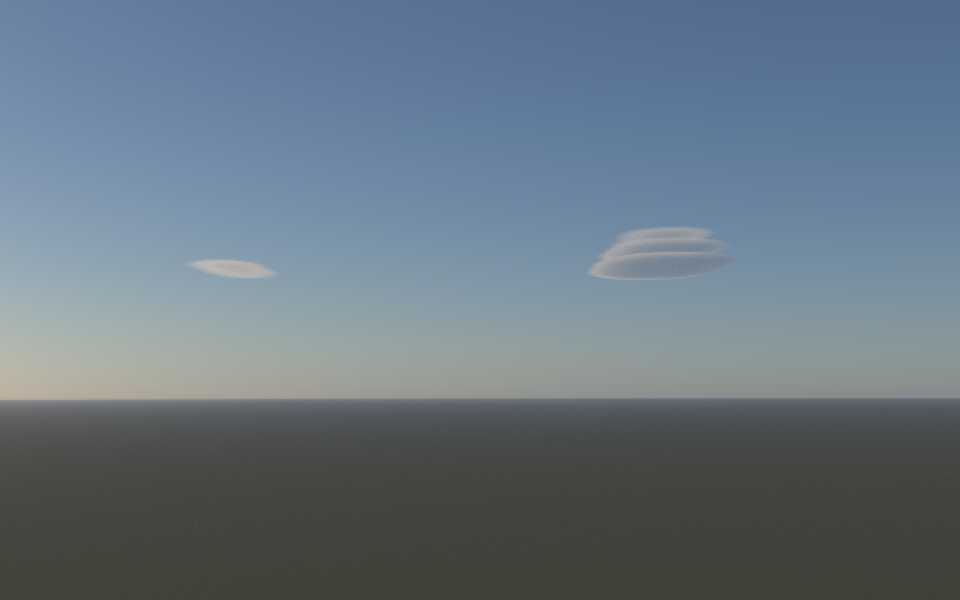
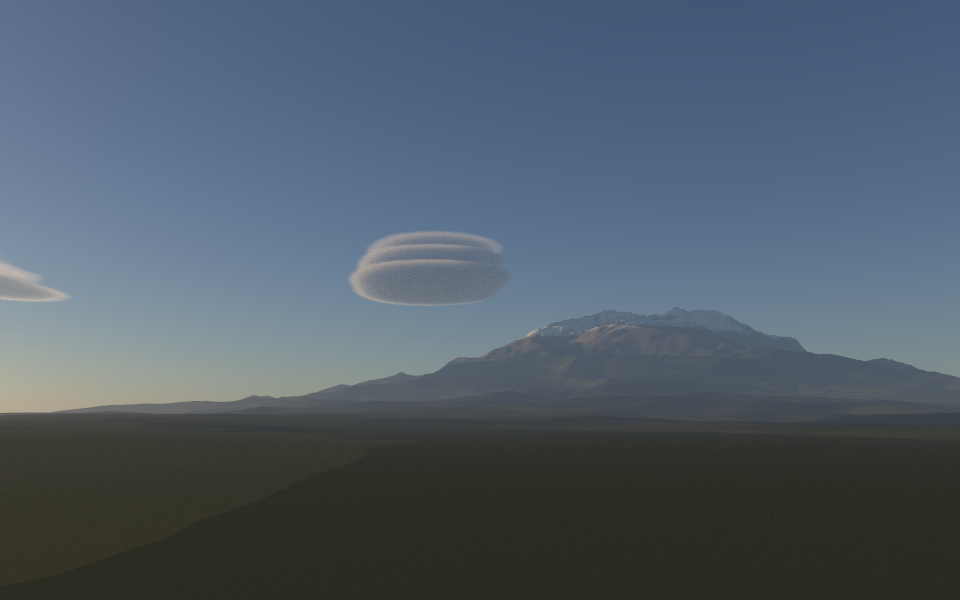
Mountains: a terrain object, and a peak under the lenticular clouds
"terrain" meshes a heightfield of ridged multifractal noise around a massif, fading to rolling
plains at its edges, and lays it on the planet's curve. Its material puts snow above a
ragged snowline on slopes gentle enough to hold it, rock on steep slopes and above the trees,
and forest and grass below. SmoothMesh can now be built from generated triangles.

The lenticular scene now has the stack standing downwind of a snow-capped peak, closer in.

Claude-Session: https://claude.ai/code/session_01U8ZZinwhHe5p11D21Sa8SU

diff --git a/src/procedural/terrain.rs b/src/procedural/terrain.rs
@@ -1,0 +1,239 @@
+//! Mountains: a heightfield of ridged noise around a peak, meshed and lying on the planet, with
+//! a material that puts snow, rock and vegetation where they grow.
+//!
+//! The relief is ridged multifractal noise (F. K. Musgrave, "Texturing and Modeling: A
+//! Procedural Approach", ch. 16): one minus the absolute value of Perlin noise, squared, makes
+//! sharp ridges and rounded valleys, and weighting each octave by the one before keeps valleys
+//! smooth and roughens the ridges. Domain warping bends the ridges. A massif rises around
+//! `peak`, and the relief fades to gently rolling plains towards the edges, which follow the
+//! planet's curve so the range meets the ground and drops behind the horizon with distance.
+//!
+//! Snow lies above `snowline` where slopes are gentle enough to hold it, rock shows on steep
+//! slopes and above `treeline`, and below are forest and grassland.
+
+use crate::color::Color;
+use crate::intersection::Intersection;
+use crate::material::functions::{direct_lighting, scatter_lambertian};
+use crate::material::model::{MaterialModel, ScatteredRay};
+use crate::na::{Vector2, Vector3};
+use crate::noise::PerlinNoise;
+use crate::procedural::nubis_clouds::smoothstep;
+use crate::ray::Ray;
+use crate::scene::Scene;
+use crate::shapes::triangle::SmoothTriangle;
+use std::sync::Arc;
+
+pub struct Terrain {
+    /// Middle of the square of terrain ([x, z]), and how far it reaches either side.
+    pub center: Vector2<f64>,
+    pub extent: f64,
+    /// Vertices along each side.
+    pub resolution: usize,
+    /// The massif: where its summit is, how high it rises (m), and how wide it is.
+    pub peak: Vector2<f64>,
+    pub peak_height: f64,
+    pub peak_radius: f64,
+    /// Ridged relief: its height (m) and the size of its largest features.
+    pub relief: f64,
+    pub feature_size: f64,
+    /// Rolling relief of the plains (m).
+    pub plains: f64,
+    /// The planet's radius, to curve the ground; None for flat.
+    pub planet_radius: Option<f64>,
+    noise: PerlinNoise,
+    warp: PerlinNoise,
+}
+
+impl Terrain {
+    pub fn new(seed: u64) -> Terrain {
+        Terrain {
+            center: Vector2::zeros(),
+            extent: 30_000.,
+            resolution: 768,
+            peak: Vector2::zeros(),
+            peak_height: 3200.,
+            peak_radius: 7000.,
+            relief: 900.,
+            feature_size: 6000.,
+            plains: 40.,
+            planet_radius: Some(crate::planet::EARTH_RADIUS),
+            noise: PerlinNoise::with_seed(seed.wrapping_mul(2).wrapping_add(11)),
+            warp: PerlinNoise::with_seed(seed.wrapping_mul(2).wrapping_add(12)),
+        }
+    }
+
+    /// Ridged multifractal noise in [0, about 1].
+    fn ridged(&self, x: f64, z: f64, octaves: u32) -> f64 {
+        let (mut sum, mut amplitude, mut frequency, mut weight, mut norm) = (0., 1., 1., 1., 0.);
+        for i in 0..octaves {
+            let n = self.noise.noise(x * frequency, 0.37 * i as f64, z * frequency);
+            let ridge = (1. - n.abs()).powi(2);
+            let r = ridge * weight;
+            sum += r * amplitude;
+            norm += amplitude;
+            weight = (r * 2.).clamp(0., 1.);
+            amplitude *= 0.5;
+            frequency *= 2.03;
+        }
+        sum / norm
+    }
+
+    /// Height above the planet's surface at (`x`, `z`).
+    pub fn relief_at(&self, x: f64, z: f64) -> f64 {
+        let (u, v) = (x / self.feature_size, z / self.feature_size);
+        let w = |o: f64| (self.warp.fbm(u * 0.5, o, v * 0.5, 3, 0.5, 2.) - 0.5) * 1.6;
+        let (u, v) = (u + w(0.2), v + w(0.7));
+        let r = (Vector2::new(x, z) - self.peak).norm() / self.peak_radius;
+        // The massif: a broad, steep-sided dome, with ridges carved into it everywhere it rises.
+        let massif = (-r.powf(1.6)).exp();
+        let foothills = (-(r / 2.2).powi(2)).exp();
+        let ridges = self.ridged(u, v, 8);
+        let mountains = self.peak_height * massif * (0.55 + 0.45 * ridges) + self.relief * foothills * (ridges - 0.3);
+        let rolling = self.plains * (self.warp.fbm(u * 2., 0.5, v * 2., 4, 0.5, 2.) - 0.5) * 2.;
+        // Fade to the plains at the edges, so the terrain meets the ground around it.
+        let edge = (Vector2::new(x, z) - self.center).abs().max() / self.extent;
+        let fade = 1. - smoothstep(0.8, 1., edge);
+        (mountains * fade).max(0.) + rolling * fade
+    }
+
+    /// The surface point at (`x`, `z`): on the curved planet unless flat.
+    pub fn point(&self, x: f64, z: f64) -> Vector3<f64> {
+        let h = self.relief_at(x, z);
+        match self.planet_radius {
+            None => Vector3::new(x, h, z),
+            Some(radius) => {
+                // Straight down from the planet's top, onto the sphere, then up by the relief.
+                let up = Vector3::new(x, radius, z).normalize();
+                Vector3::new(0., -radius, 0.) + up * (radius + h)
+            }
+        }
+    }
+
+    /// The triangles, with normals from the heightfield's slope at each vertex.
+    pub fn triangles(&self) -> Vec<Arc<SmoothTriangle>> {
+        let n = self.resolution.max(2);
+        let step = 2. * self.extent / (n - 1) as f64;
+        let at = |i: usize, j: usize| (self.center.x - self.extent + i as f64 * step, self.center.y - self.extent + j as f64 * step);
+        let points: Vec<Vector3<f64>> = (0..n * n).map(|k| {
+            let (x, z) = at(k % n, k / n);
+            self.point(x, z)
+        }).collect();
+        let p = |i: usize, j: usize| points[j * n + i];
+        let normals: Vec<Vector3<f64>> = (0..n * n).map(|k| {
+            let (i, j) = (k % n, k / n);
+            let dx = p((i + 1).min(n - 1), j) - p(i.saturating_sub(1), j);
+            let dz = p(i, (j + 1).min(n - 1)) - p(i, j.saturating_sub(1));
+            dz.cross(&dx).normalize()
+        }).collect();
+        let nm = |i: usize, j: usize| normals[j * n + i];
+        let mut tris = Vec::with_capacity(2 * (n - 1) * (n - 1));
+        for j in 0..n - 1 {
+            for i in 0..n - 1 {
+                tris.push(Arc::new(SmoothTriangle::new(p(i, j), p(i, j + 1), p(i + 1, j), nm(i, j), nm(i, j + 1), nm(i + 1, j))));
+                tris.push(Arc::new(SmoothTriangle::new(p(i + 1, j), p(i, j + 1), p(i + 1, j + 1), nm(i + 1, j), nm(i, j + 1), nm(i + 1, j + 1))));
+            }
+        }
+        tris
+    }
+}
+
+/// Snow, rock and vegetation by height and slope.
+pub struct TerrainMaterial {
+    pub snowline: f64,
+    pub treeline: f64,
+    pub snow: Color,
+    pub rock: Color,
+    pub forest: Color,
+    pub grass: Color,
+    pub planet_radius: Option<f64>,
+    noise: PerlinNoise,
+}
+
+impl TerrainMaterial {
+    pub fn new(seed: u64) -> TerrainMaterial {
+        TerrainMaterial {
+            snowline: 2400.,
+            treeline: 1800.,
+            snow: Color::new(0.85, 0.87, 0.9),
+            rock: Color::new(0.16, 0.14, 0.12),
+            forest: Color::new(0.035, 0.05, 0.03),
+            grass: Color::new(0.11, 0.12, 0.06),
+            planet_radius: Some(crate::planet::EARTH_RADIUS),
+            noise: PerlinNoise::with_seed(seed.wrapping_add(31)),
+        }
+    }
+
+    /// Height above the planet, and the local vertical.
+    fn frame(&self, p: &Vector3<f64>) -> (f64, Vector3<f64>) {
+        match self.planet_radius {
+            None => (p.y, Vector3::y()),
+            Some(r) => {
+                let c = Vector3::new(0., -r, 0.);
+                ((p - c).norm() - r, (p - c).normalize())
+            }
+        }
+    }
+
+    pub fn albedo(&self, p: &Vector3<f64>, normal: &Vector3<f64>) -> Color {
+        let (height, up) = self.frame(p);
+        let flatness = normal.dot(&up);
+        let n = |s: f64, o: f64| self.noise.fbm(p.x / s, o, p.z / s, 4, 0.5, 2.);
+        // Snow holds on slopes gentler than about 50°, drifting below the snowline in gullies.
+        let line = self.snowline + (n(900., 0.1) - 0.5) * 900.;
+        let snow = smoothstep(line - 120., line + 120., height) * smoothstep(0.55, 0.75, flatness);
+        // Bare rock on steep slopes, and everywhere above the trees.
+        let tree = self.treeline + (n(1500., 0.3) - 0.5) * 500.;
+        let rock = (1. - smoothstep(0.6, 0.8, flatness)).max(smoothstep(tree - 100., tree + 150., height));
+        let vegetation = self.grass * (1. - smoothstep(0.4, 0.6, n(2500., 0.5))) + self.forest * smoothstep(0.4, 0.6, n(2500., 0.5));
+        let below = vegetation * (1. - rock) + self.rock * rock * (0.7 + 0.6 * n(300., 0.7));
+        below * (1. - snow) + self.snow * snow
+    }
+}
+
+impl MaterialModel for TerrainMaterial {
+    fn scatter(&self, r: &Ray, intersection: &Intersection, s: &Scene) -> ScatteredRay {
+        let intersection = &intersection.facing(r);
+        let albedo = self.albedo(&intersection.point, &intersection.normal);
+        ScatteredRay {
+            emit: direct_lighting(albedo, intersection, s),
+            sampled_lights: true,
+            ..scatter_lambertian(albedo, intersection)
+        }
+    }
+}
+
+#[cfg(test)]
+mod tests {
+    use super::*;
+
+    #[test]
+    fn test_massif_rises_at_the_peak_and_fades_at_the_edges() {
+        let t = Terrain::new(1);
+        let summit = t.relief_at(0., 0.);
+        assert!(summit > 0.5 * t.peak_height, "{}", summit);
+        let edge = t.relief_at(t.extent, 0.);
+        assert!(edge.abs() < 1e-6, "{}", edge);
+        // Far out, only the plains' gentle relief.
+        assert!(t.relief_at(0.7 * t.extent, 0.7 * t.extent).abs() < 0.2 * t.peak_height);
+    }
+
+    #[test]
+    fn test_ground_curves_with_the_planet() {
+        let t = Terrain::new(1);
+        let p = t.point(0.99 * t.extent, 0.);
+        let drop = (0.99 * t.extent).powi(2) / (2. * crate::planet::EARTH_RADIUS);
+        assert!((p.y + drop).abs() < 1., "{} vs {}", p.y, -drop);
+    }
+
+    #[test]
+    fn test_snow_on_high_gentle_slopes_and_not_on_cliffs_or_low() {
+        let mut m = TerrainMaterial::new(1);
+        m.planet_radius = None;
+        let up = Vector3::y();
+        let cliff = Vector3::new(1., 0.3, 0.).normalize();
+        let high = Vector3::new(0., 3500., 0.);
+        assert!((m.albedo(&high, &up).rgb.x - m.snow.rgb.x).abs() < 1e-9);
+        assert!(m.albedo(&high, &cliff).rgb.x < 0.5);
+        assert!(m.albedo(&Vector3::new(0., 200., 0.), &up).rgb.x < 0.2);
+    }
+}

diff --git a/src/scenefile.rs b/src/scenefile.rs
@@ -19,6 +19,7 @@ use crate::procedural::nubis_clouds::{NubisCloudLayer, GlobalNubis};
 use crate::procedural::hogan_kew_cirrus::{HoganKewCirrus, CirrusField, CirrusGenus, GlobalCirrus};
 use crate::procedural::benard_altocumulus::BenardAltocumulus;
 use crate::procedural::lenticular::{Lenticular, MoistLayer};
+use crate::procedural::terrain::{Terrain, TerrainMaterial};
 use crate::procedural::harris_cumulus::{CloudSimulation, Forcing, HarrisCumulus, Profile, SimulationParams, Sounding};
 use crate::participatingmedia::create_fog;
 use crate::volume::{create_volume, DensityField, ConstantDensity, NoiseDensity, ScatteringApproximation, Oz, Diffraction, Halos, Scattering};
@@ -256,6 +257,10 @@ impl SceneFile {
 
         if t == "harris_cumulus" {
             return Some(Arc::new(SceneFile::parse_harris_cumulus(&o)));
+        }
+
+        if t == "terrain" {
+            return Some(Arc::new(SceneFile::parse_terrain(&o)));
         }
 
         if t == "lenticular" {
@@ -624,6 +629,45 @@ impl SceneFile {
         );
         let (bounds, field) = SceneFile::curved(o, bounds, Arc::new(c));
         create_volume(bounds, field, SceneFile::parse_scattering(o, 0.85))
+    }
+
+    /// Mountains (see `procedural::terrain`): a meshed heightfield of ridged noise around a
+    /// massif, lying on the planet, with snow, rock and vegetation:
+    ///
+    /// `{"type": "terrain", "center": [x, z], "extent": 30000, "resolution": 768,
+    /// "peak": [x, z], "peak_height": 3200, "peak_radius": 7000, "seed": 0}`
+    ///
+    /// with `relief` and `feature_size` (the ridges), `plains` (relief of the plains around),
+    /// `snowline` and `treeline` (m), the colours `snow`, `rock`, `forest` and `grass`, and
+    /// `"mapping": "flat"` for flat ground rather than the planet's.
+    pub fn parse_terrain(o: &Value) -> SceneObject {
+        let num = |k: &str, d: f64| SceneFile::parse_number(&o[k], d);
+        let seed = SceneFile::parse_seed(o).unwrap_or(0);
+        let flat = o["mapping"].as_str() == Some("flat");
+        let mut t = Terrain::new(seed);
+        t.center = SceneFile::parse_vec2_def(o, "center", t.center);
+        t.extent = num("extent", t.extent).max(1.);
+        t.resolution = SceneFile::parse_int(&o["resolution"], t.resolution).max(2);
+        t.peak = SceneFile::parse_vec2_def(o, "peak", t.center);
+        t.peak_height = num("peak_height", t.peak_height);
+        t.peak_radius = num("peak_radius", t.peak_radius).max(1.);
+        t.relief = num("relief", t.relief);
+        t.feature_size = num("feature_size", t.feature_size).max(1.);
+        t.plains = num("plains", t.plains);
+        let radius = if flat { None } else { Some(SceneFile::parse_number(&o["earth_radius"], EARTH_RADIUS)) };
+        t.planet_radius = radius;
+        let mut m = TerrainMaterial::new(seed);
+        m.planet_radius = radius;
+        m.snowline = num("snowline", m.snowline);
+        m.treeline = num("treeline", m.treeline);
+        m.snow = SceneFile::parse_color_def(o, "snow", m.snow);
+        m.rock = SceneFile::parse_color_def(o, "rock", m.rock);
+        m.forest = SceneFile::parse_color_def(o, "forest", m.forest);
+        m.grass = SceneFile::parse_color_def(o, "grass", m.grass);
+        SceneObject {
+            geometry: Box::new(SmoothMesh::from_triangles(t.triangles())),
+            medium: Box::new(Solid { m: Box::new(m) }),
+        }
     }
 
     /// Lenticular clouds over the lee waves of a ridge (see `procedural::lenticular`):

diff --git a/src/shapes/mesh.rs b/src/shapes/mesh.rs
@@ -180,9 +180,13 @@ impl SmoothMesh {
         }
 
         println!("# of triangles: {}", triangles.len());
+        SmoothMesh::from_triangles(triangles)
+    }
 
+    /// A mesh of the given triangles, eg. generated rather than loaded.
+    pub fn from_triangles(triangles: Vec<Arc<SmoothTriangle>>) -> SmoothMesh {
         let bounds = SmoothMesh::bounds_of(&triangles);
-        let tree = Octree::new(8, bounds, &triangles); 
+        let tree = Octree::new(8, bounds, &triangles);
         SmoothMesh {
             triangles: tree,
             bounds,

diff --git a/src/main.rs b/src/main.rs
@@ -75,6 +75,7 @@ mod procedural {
     pub mod hogan_kew_cirrus;
     pub mod benard_altocumulus;
     pub mod lenticular;
+    pub mod terrain;
     pub mod harris_cumulus;
 }
 mod participatingmedia;

diff --git a/CLAUDE.md b/CLAUDE.md
@@ -4,7 +4,7 @@
 Rays.rust is a raytracer written in Rust with the following features:
 - Whitted tracing and path tracing with Monte-Carlo global illumination
 - Material models: Lambertian, Specular, Dielectric
-- Objects: Sphere, Plane, Mesh, OBJ file import, and a planet (`"planet"`: the ground as a sphere of the Earth's radius); clouds can cover the whole planet (`"mapping": "global"`: an equi-angular cube-sphere weather map and a planet-wide wind field), seen from orbit in `demo/scenes/orbit.json` (and the bare atmosphere at the limb and from the stratosphere: `limb-sunset.json`, `stratosphere.json`)
+- Objects: Sphere, Plane, Mesh, OBJ file import, mountains (`"terrain"`: ridged-noise heightfield with snow, rock and vegetation), and a planet (`"planet"`: the ground as a sphere of the Earth's radius); clouds can cover the whole planet (`"mapping": "global"`: an equi-angular cube-sphere weather map and a planet-wide wind field), seen from orbit in `demo/scenes/orbit.json` (and the bare atmosphere at the limb and from the stratosphere: `limb-sunset.json`, `stratosphere.json`)
 - Participating media: boxes of constant or noise-driven density (delta tracking with local majorants, ratio-tracked shadows); Henyey-Greenstein or Mie (water droplet) phase; diffraction by particles (coronae, iridescence); ice-crystal halos traced through hexagonal prisms (sun dogs, 22°/46° halos, circumzenithal arc); optional similarity and Oz multiple-scattering approximations
 - Skysphere with Rayleigh and Mie Scattering, and aerial perspective (distant objects attenuated and hazed by the same atmosphere)
 - Directional sun light (`"sun"`), sampled directly; follows the skysphere's sun and is reddened by its atmosphere

diff --git a/demo/cloud-atlas.md b/demo/cloud-atlas.md
@@ -109,7 +109,7 @@ troughs.
 
 ![Lenticular clouds](./scenes/lenticular.png)
 
-`lenticular.json`: `{"type": "lenticular", "ridge": [0, 0], "ridge_length": 800, "wind_direction": [1, 0], "oz": true}`
+`lenticular.json`: `{"type": "lenticular", "ridge": [0, 0], "ridge_length": 800, "wind_direction": [1, 0], "oz": true}`, over `{"type": "terrain", "peak": [-1500, 0]}`
 
 Smooth lenses standing over the lee of a mountain, often stacked like a pile of plates. Stable air
 blowing over a ridge oscillates, and the oscillation stays trapped below some height as a train of
@@ -124,7 +124,10 @@ lift it needs to saturate. The lift past saturation sets the cloud water (`conde
 crest that lifts it high enough. Thin, separate moist layers give the stack. On the weaker crests
 downstream, only the moistest layer condenses: in the scene, the second crest holds a single
 plate. Humidity varies slowly from place to place, and fine strata and eddies texture the lenses.
-A short ridge gives the saucers of an isolated peak; a long one gives bands across the wind.
+A short ridge gives the saucers of an isolated peak; a long one gives bands across the wind. The
+scene puts a mountain under them: `terrain` is a meshed heightfield of ridged multifractal noise
+around a massif. It lies on the planet's curve, with snow, rock and vegetation by height and
+slope.
 
 Seen from the side, a lens is lit mostly by light scattered many times, so the scene uses the Oz
 approximation (`"oz": true`). Without it, the render sparkles with noise.
